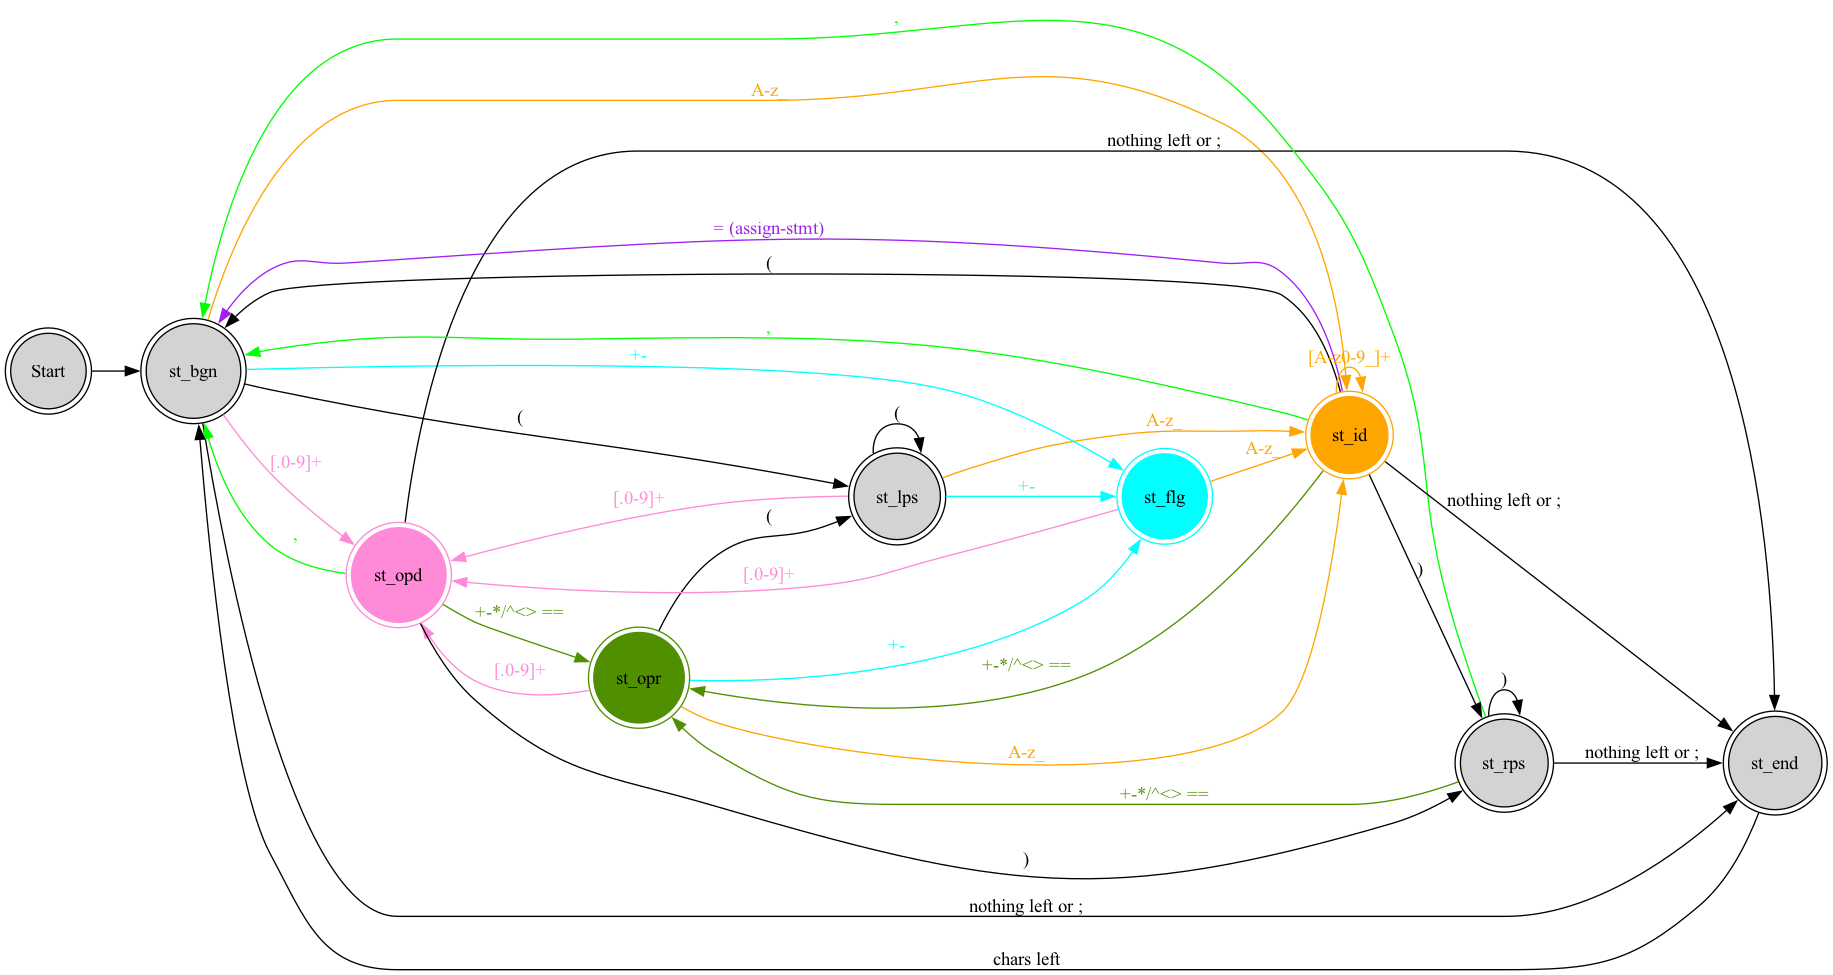
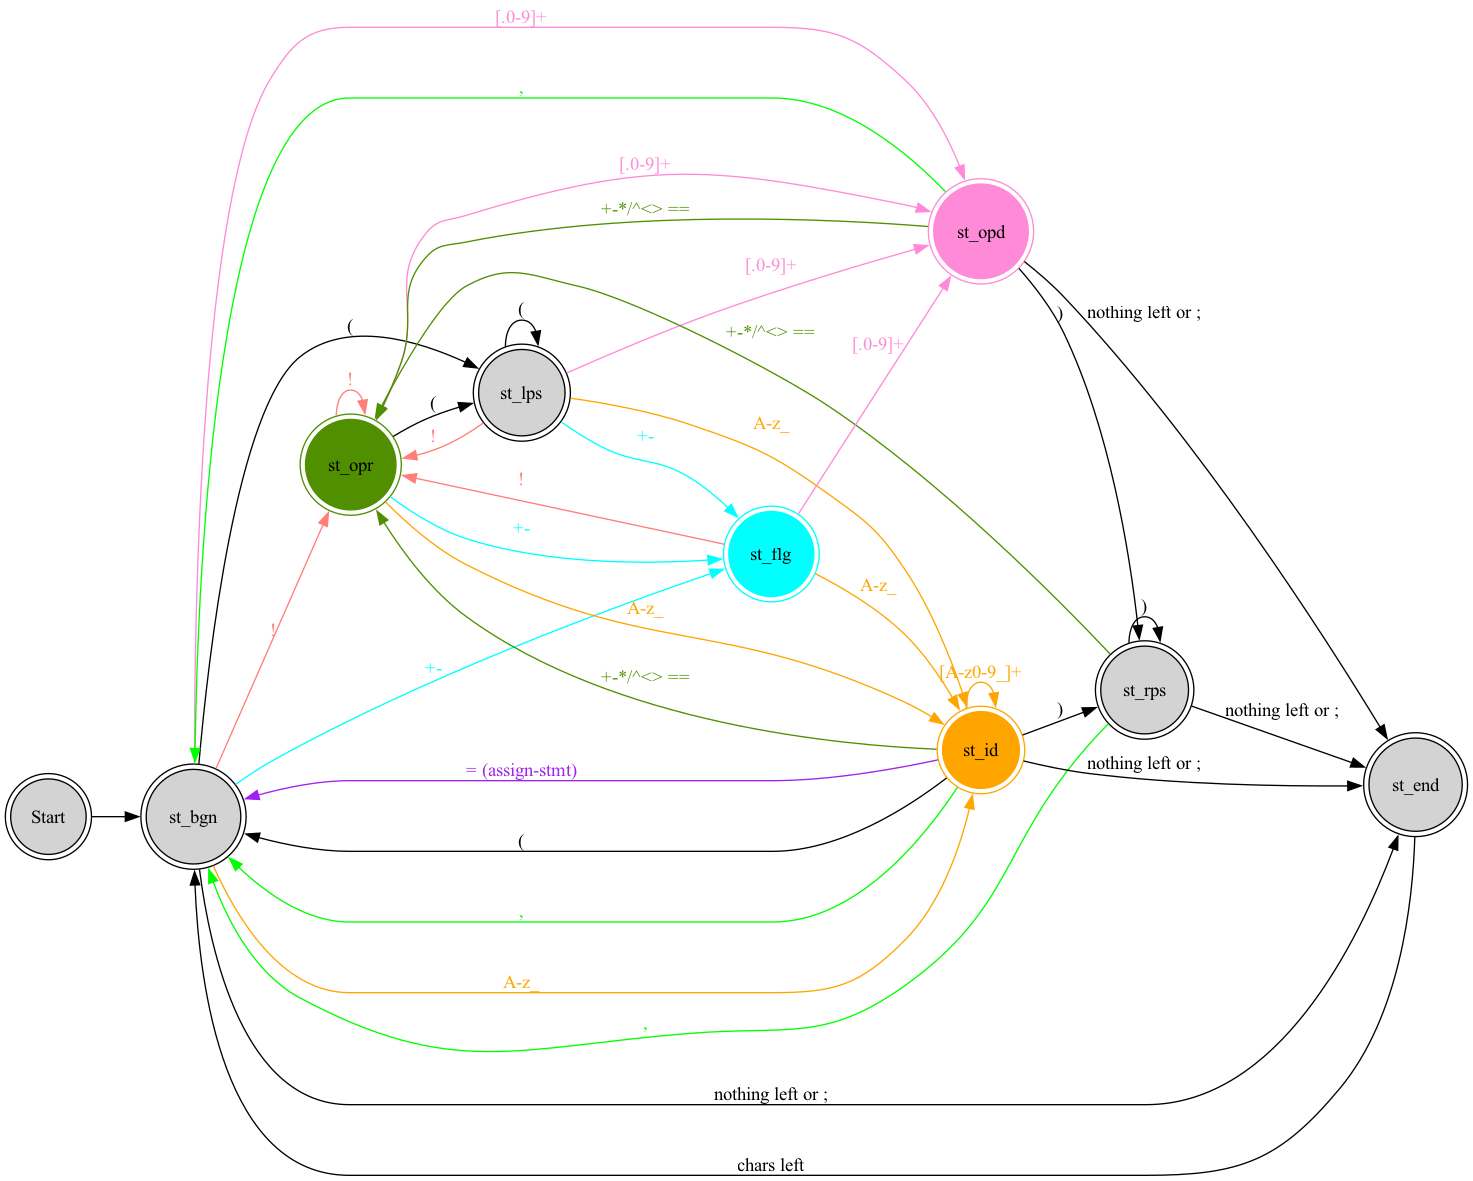
store: #.

diff --git a/arithmetic_expression.cc b/arithmetic_expression.cc
@@ -31,7 +31,6 @@ ArithmeticExpression::ArithmeticExpression(const std::string& infix_expression, 
       m_parse_pos(0),
       m_lp_count(0),
       m_id_spc_occurred(false),
-      m_flg(FLG_ACTIVE),
       m_result(-1)
 {
     m_operator_stack.push(LOWEST_PRIO_OP);
@@ -66,14 +65,14 @@ ArithmeticExpression::m_state_table[ST_UPPER][CT_UPPER] = {
     // //    the second item is the type of process action of the transition                     //
     ///////////////////////////////////////////////////////////////////////////////////////////////
     // Code:
-    //              CT_WHITESPACE     CT_OP             CT_NUM            CT_LP             CT_RP             CT_FLG            CT_ALP            CT_COMMA            CT_SEMICOLON            CT_SYMBOL_EQUAL
-    /* ST_BGN */ {{AT_NON, ST_BGN}, {AT_ERR, ST_ERR}, {AT_OPD, ST_OPD}, {AT_LPS, ST_LPS}, {AT_ERR, ST_ERR}, {AT_FLG, ST_FLG}, {AT_ALP, ST_IDF}, {AT_ERR, ST_ERR},   {AT_SEMICOLON, ST_END}, {AT_ERR, ST_ERR}},
-    /* ST_OPR */ {{AT_NON, ST_OPR}, {AT_ERR, ST_ERR}, {AT_OPD, ST_OPD}, {AT_LPS, ST_LPS}, {AT_ERR, ST_ERR}, {AT_FLG, ST_FLG}, {AT_ALP, ST_IDF}, {AT_ERR, ST_ERR},   {AT_ERR, ST_ERR},       {AT_ERR, ST_ERR}},
-    /* ST_OPD */ {{AT_NON, ST_OPD}, {AT_OPR, ST_OPR}, {AT_ERR, ST_ERR}, {AT_ERR, ST_ERR}, {AT_RPS, ST_RPS}, {AT_OPR, ST_OPR}, {AT_ERR, ST_ERR}, {AT_COMMA, ST_BGN}, {AT_SEMICOLON, ST_END}, {AT_SYMBOL_EQUAL, ST_UNC}},
-    /* ST_LPS */ {{AT_NON, ST_LPS}, {AT_ERR, ST_ERR}, {AT_OPD, ST_OPD}, {AT_LPS, ST_LPS}, {AT_ERR, ST_ERR}, {AT_FLG, ST_FLG}, {AT_ALP, ST_IDF}, {AT_ERR, ST_ERR},   {AT_ERR, ST_ERR},       {AT_ERR, ST_ERR}},
-    /* ST_RPS */ {{AT_NON, ST_RPS}, {AT_OPR, ST_OPR}, {AT_ERR, ST_ERR}, {AT_ERR, ST_ERR}, {AT_RPS, ST_RPS}, {AT_ERR, ST_ERR}, {AT_ERR, ST_ERR}, {AT_COMMA, ST_BGN}, {AT_SEMICOLON, ST_END}, {AT_SYMBOL_EQUAL, ST_UNC}},
-    /* ST_FLG */ {{AT_ERR, ST_ERR}, {AT_ERR, ST_ERR}, {AT_OPD, ST_OPD}, {AT_ERR, ST_ERR}, {AT_ERR, ST_ERR}, {AT_ERR, ST_ERR}, {AT_ALP, ST_IDF}, {AT_ERR, ST_ERR},   {AT_ERR, ST_ERR},       {AT_ERR, ST_ERR}},
-    /* ST_IDF */ {{AT_SPC, ST_IDF}, {AT_OPR, ST_OPR}, {AT_ALP, ST_IDF}, {AT_LPS, ST_BGN}, {AT_RPS, ST_RPS}, {AT_FLG, ST_FLG}, {AT_ALP, ST_IDF}, {AT_COMMA, ST_BGN}, {AT_SEMICOLON, ST_END}, {AT_SYMBOL_EQUAL, ST_UNC}},
+    //              CT_WHITESPACE     CT_OP             CT_NUM            CT_LP             CT_RP             CT_FLG            CT_ALP            CT_COMMA            CT_SEMICOLON            CT_SYMBOL_EQUAL           CT_EXCLAMATION
+    /* ST_BGN */ {{AT_NON, ST_BGN}, {AT_ERR, ST_ERR}, {AT_OPD, ST_OPD}, {AT_LPS, ST_LPS}, {AT_ERR, ST_ERR}, {AT_FLG, ST_FLG}, {AT_ALP, ST_IDF}, {AT_ERR, ST_ERR},   {AT_SEMICOLON, ST_END}, {AT_ERR, ST_ERR},          {AT_EXCLAMATION, ST_OPR}},
+    /* ST_OPR */ {{AT_NON, ST_OPR}, {AT_ERR, ST_ERR}, {AT_OPD, ST_OPD}, {AT_LPS, ST_LPS}, {AT_ERR, ST_ERR}, {AT_FLG, ST_FLG}, {AT_ALP, ST_IDF}, {AT_ERR, ST_ERR},   {AT_ERR, ST_ERR},       {AT_ERR, ST_ERR},          {AT_EXCLAMATION, ST_OPR}},
+    /* ST_OPD */ {{AT_NON, ST_OPD}, {AT_OPR, ST_OPR}, {AT_ERR, ST_ERR}, {AT_ERR, ST_ERR}, {AT_RPS, ST_RPS}, {AT_OPR, ST_OPR}, {AT_ERR, ST_ERR}, {AT_COMMA, ST_BGN}, {AT_SEMICOLON, ST_END}, {AT_SYMBOL_EQUAL, ST_UNC}, {AT_ERR, ST_ERR}},
+    /* ST_LPS */ {{AT_NON, ST_LPS}, {AT_ERR, ST_ERR}, {AT_OPD, ST_OPD}, {AT_LPS, ST_LPS}, {AT_ERR, ST_ERR}, {AT_FLG, ST_FLG}, {AT_ALP, ST_IDF}, {AT_ERR, ST_ERR},   {AT_ERR, ST_ERR},       {AT_ERR, ST_ERR},          {AT_EXCLAMATION, ST_OPR}},
+    /* ST_RPS */ {{AT_NON, ST_RPS}, {AT_OPR, ST_OPR}, {AT_ERR, ST_ERR}, {AT_ERR, ST_ERR}, {AT_RPS, ST_RPS}, {AT_ERR, ST_ERR}, {AT_ERR, ST_ERR}, {AT_COMMA, ST_BGN}, {AT_SEMICOLON, ST_END}, {AT_SYMBOL_EQUAL, ST_UNC}, {AT_ERR, ST_ERR}},
+    /* ST_FLG */ {{AT_ERR, ST_ERR}, {AT_ERR, ST_ERR}, {AT_OPD, ST_OPD}, {AT_ERR, ST_ERR}, {AT_ERR, ST_ERR}, {AT_ERR, ST_ERR}, {AT_ALP, ST_IDF}, {AT_ERR, ST_ERR},   {AT_ERR, ST_ERR},       {AT_ERR, ST_ERR},          {AT_EXCLAMATION, ST_OPR}},
+    /* ST_IDF */ {{AT_SPC, ST_IDF}, {AT_OPR, ST_OPR}, {AT_ALP, ST_IDF}, {AT_LPS, ST_BGN}, {AT_RPS, ST_RPS}, {AT_FLG, ST_FLG}, {AT_ALP, ST_IDF}, {AT_COMMA, ST_BGN}, {AT_SEMICOLON, ST_END}, {AT_SYMBOL_EQUAL, ST_UNC}, {AT_ERR, ST_ERR}},
 };
 
 ArithmeticExpression::FunctionMeta
@@ -150,16 +149,17 @@ int ArithmeticExpression::getPriority(char c)
 {
     /* priority order for high to low */
     switch (c) {
-    case '(': return 6;
-    case '^': return 5;
+    case '(': return 66;
+    case '!': return 56;
+    case '^': return 55;
     case '*':
-    case '/': return 4;
+    case '/': return 44;
     case '+':
-    case '-': return 3;
-    case ')': return 2;
+    case '-': return 33;
+    case ')': return 22;
     case '>':
     case 'e':
-    case '<': return 1;
+    case '<': return 11;
     case LOWEST_PRIO_OP: return 0;
     default: return 0;
     }
@@ -170,7 +170,7 @@ bool ArithmeticExpression::handleAction(ActionType type, char c)
     bool rc = false;
     switch (type) {
     case AT_NON: rc = handleNone(); break;
-    case AT_FLG: rc = handleFlag(); break;
+    case AT_FLG: rc = handleFlag(c); break;
     case AT_OPR: rc = handleOperator(c); break;
     case AT_OPD: rc = handleOperand(); break;
     case AT_LPS: rc = handleLeftParenthesis(); break;
@@ -180,6 +180,7 @@ bool ArithmeticExpression::handleAction(ActionType type, char c)
     case AT_COMMA: rc = handleComma(); break;
     case AT_SEMICOLON: rc = handleSemicolon(); break;
     case AT_SYMBOL_EQUAL: rc = handleSymbolEqual(); break;
+    case AT_EXCLAMATION: rc = handleExclamation(); break;
     case AT_ERR: rc = handleError(); break;
     default:
         print("no handler found for action type:%d\n", type);
@@ -227,6 +228,7 @@ CharType ArithmeticExpression::getCharType(int c) {
     }
     if ( ';' == c) return CT_SEMICOLON;
     if ( '=' == c) return CT_SYMBOL_EQUAL;
+    if ( '!' == c) return CT_EXCLAMATION;
     return CT_UPPER;
 }
 
@@ -265,10 +267,9 @@ void ArithmeticExpression::dia(char* marker) {
     for (const auto& item : m_id_map) {
         print(" m_id_map[\"%s\"]=%f ", item.first.c_str(), item.second);
     }
-    print(" m_id = \"%s\" m_id_spc_occurred = %s m_flg = '%d' m_lp_count = %d m_stmt = %d m_result = %g m_state_next_certained = %s rpn = \"%s\"\n",
+    print(" m_id = \"%s\" m_id_spc_occurred = %s m_lp_count = %d m_stmt = %d m_result = %g m_state_next_certained = %s rpn = \"%s\"\n",
           m_id.c_str(),
           m_id_spc_occurred?"true":"false",
-          m_flg,
           m_lp_count,
           m_stmt,
           m_result,
@@ -326,14 +327,12 @@ bool ArithmeticExpression::handleNone()
     return true;
 }
 
-bool ArithmeticExpression::handleFlag()
+bool ArithmeticExpression::handleFlag(char flag)
 {
     print("handing flags ...\n");
-    const char& c = m_arithmetic_expression[m_parse_pos];
-    if ( '-' == c) {
-        m_flg = FLG_NEGATIVE;
-    } else {
-        m_flg = FLG_ACTIVE;
+    if ( '-' == flag) {
+        m_operand_stack.push(-1);
+        m_operator_stack.push('*');
     }
     return true;
 }
@@ -367,11 +366,15 @@ bool ArithmeticExpression::handleOperator(char opr)
         // opr and top are '^', do not calculate immediately.
         if (opr == top && opr == '^') break;
 
+        // right-associative for !, do not calculate immediately, case: !!1
+        if (opr == top && opr == '!') break;
+
+        if (! calculate(top)) return false;
+
         // update rpn
         appendToRpnExpression(top);
         appendToRpnExpression(' ');
 
-        if (! calculate(top)) return false;
         // if calcute success, means cur opr consumed,
         // so pop, and go on to next opr.
         m_operator_stack.pop();
@@ -442,33 +445,10 @@ bool ArithmeticExpression::handleOperand()
     }
 
     double num = int_val + dot_val;
+    m_operand_stack.push(num);
 
-    if (m_flg == FLG_NEGATIVE) {
-        // NOTE: to support conventional math precedence like "-2^2"
-        // we expand "-2^2" as "-1 * 2 ^ 2", so to process "-2",
-        // split into 3 steps:
-        // 1. push -1 => opd_stack
-        // 2. push  2 => opd_stack
-        // 3. push  * => opr_stack
-        m_operand_stack.push(-1);
-        m_operand_stack.push(num);
-        m_operator_stack.push('*');
-        // NOTICE: important, reset m_flg to be +
-        m_flg = FLG_ACTIVE;
-
-        // m_rpn_expression
-        // '*' will be filled by m_operator_stack
-        m_rpn_expression.append(" -1 "+std::to_string(num)+" ");
-
-    } else {
-        m_operand_stack.push(num);
-
-        // m_rpn_expression
-        m_rpn_expression.append(" "+std::to_string(num)+" ");
-    }
-
-    print("m_flg=%d, int part=\"%g\", dot part=\"%g\", dot occurred=\"%s\"\n",
-        m_flg, int_val, dot_val, dot_occurred ? "yes" : "no");
+    print("int part=\"%g\", dot part=\"%g\", dot occurred=\"%s\"\n",
+        int_val, dot_val, dot_occurred ? "yes" : "no");
     return true;
 }
 
@@ -713,6 +693,10 @@ bool ArithmeticExpression::handleSymbolEqual() {
         }
     }
     return true;
+}
+
+bool ArithmeticExpression::handleExclamation() {
+    return handleOperator('!');
 }
 
 // NOTE: for easier maintainance, only modify m_operand_stack when
@@ -989,38 +973,64 @@ bool ArithmeticExpression::calculate(int opr)
         return true;
 
     } else {
-        // two-args opr
-        double r_opd = m_operand_stack.pop();
-        double l_opd = m_operand_stack.pop();
         switch (opr) {
-        case '^': m_operand_stack.push( pow(l_opd,r_opd) ); break;
-        case '+': m_operand_stack.push( l_opd + r_opd ); break;
-        case '-': m_operand_stack.push( l_opd - r_opd ); break;
-        case '*': m_operand_stack.push( l_opd * r_opd ); break;
+        case '^': {
+            double r_opd = m_operand_stack.pop();
+            double l_opd = m_operand_stack.pop();
+            m_operand_stack.push( pow(l_opd,r_opd) ); break;
+        }
+        case '+': {
+            double r_opd = m_operand_stack.pop();
+            double l_opd = m_operand_stack.pop();
+            m_operand_stack.push( l_opd + r_opd ); break;
+        }
+        case '-': {
+            double r_opd = m_operand_stack.pop();
+            double l_opd = m_operand_stack.pop();
+            m_operand_stack.push( l_opd - r_opd ); break;
+        }
+        case '*': {
+            double r_opd = m_operand_stack.pop();
+            double l_opd = m_operand_stack.pop();
+            m_operand_stack.push( l_opd * r_opd ); break;
+        }
         case '/': {
+            double r_opd = m_operand_stack.pop();
             if ( 0 == r_opd ) {
                 error("error: divide 0\n");
                 return false;
             }
+            double l_opd = m_operand_stack.pop();
             m_operand_stack.push( l_opd / r_opd);
             break;
         }
         case '>': {
+            double r_opd = m_operand_stack.pop();
+            double l_opd = m_operand_stack.pop();
             m_operand_stack.push(l_opd > r_opd? 1: 0);
             break;
         }
         case '<': {
+            double r_opd = m_operand_stack.pop();
+            double l_opd = m_operand_stack.pop();
             m_operand_stack.push(l_opd < r_opd? 1: 0);
             break;
         }
-        case 'e': {
+        case 'e': {             // "=="
+            double r_opd = m_operand_stack.pop();
+            double l_opd = m_operand_stack.pop();
             m_operand_stack.push(l_opd == r_opd? 1: 0);
             break;
         }
-        default: print("unknown operator='<%c %d>'\n", opr, opr); return false;
+        case '!': {
+            double r_opd = m_operand_stack.pop();
+            m_operand_stack.push(r_opd == 0? 1: 0);
+            break;
         }
-        print("opr='<%c %d>', l_opd=\"%g\", r_opd=\"%g\", rst=\"%g\"\n", opr, opr, l_opd, r_opd, m_operand_stack.top());
-
+        default: {
+            error("error: unsuppored operator='<%c %d>'\n", opr, opr); return false;
+        }
+        }
         return true;
     }
 }
@@ -1057,6 +1067,9 @@ bool ArithmeticExpression::parse()
         dia("parse+");
         ++m_parse_pos;
     }
+
+    print("\n");
+
     // check program terminal state
     if ( ! isOnTerminalState() ) {
         error("error: program in not on terminal state, current state=\"%s\"\n", getCurStateStr());
@@ -1080,7 +1093,7 @@ bool ArithmeticExpression::parse()
     // fulfill m_rpn_expression using operator stack
     int top;
     while ( ! m_operator_stack.empty() && (top = m_operator_stack.top()) != LOWEST_PRIO_OP) {
-        dia("[");
+        dia("-post-process");
         const int& top = m_operator_stack.top();
         if ( LOWEST_PRIO_OP != top ) {
             appendToRpnExpression(top);
@@ -1089,7 +1102,7 @@ bool ArithmeticExpression::parse()
         if (! calculate(top)) return false;
         // always pop to go on to next opr
         m_operator_stack.pop();
-        dia("]");
+        dia("post-process+");
     }
     dia("z");
 
